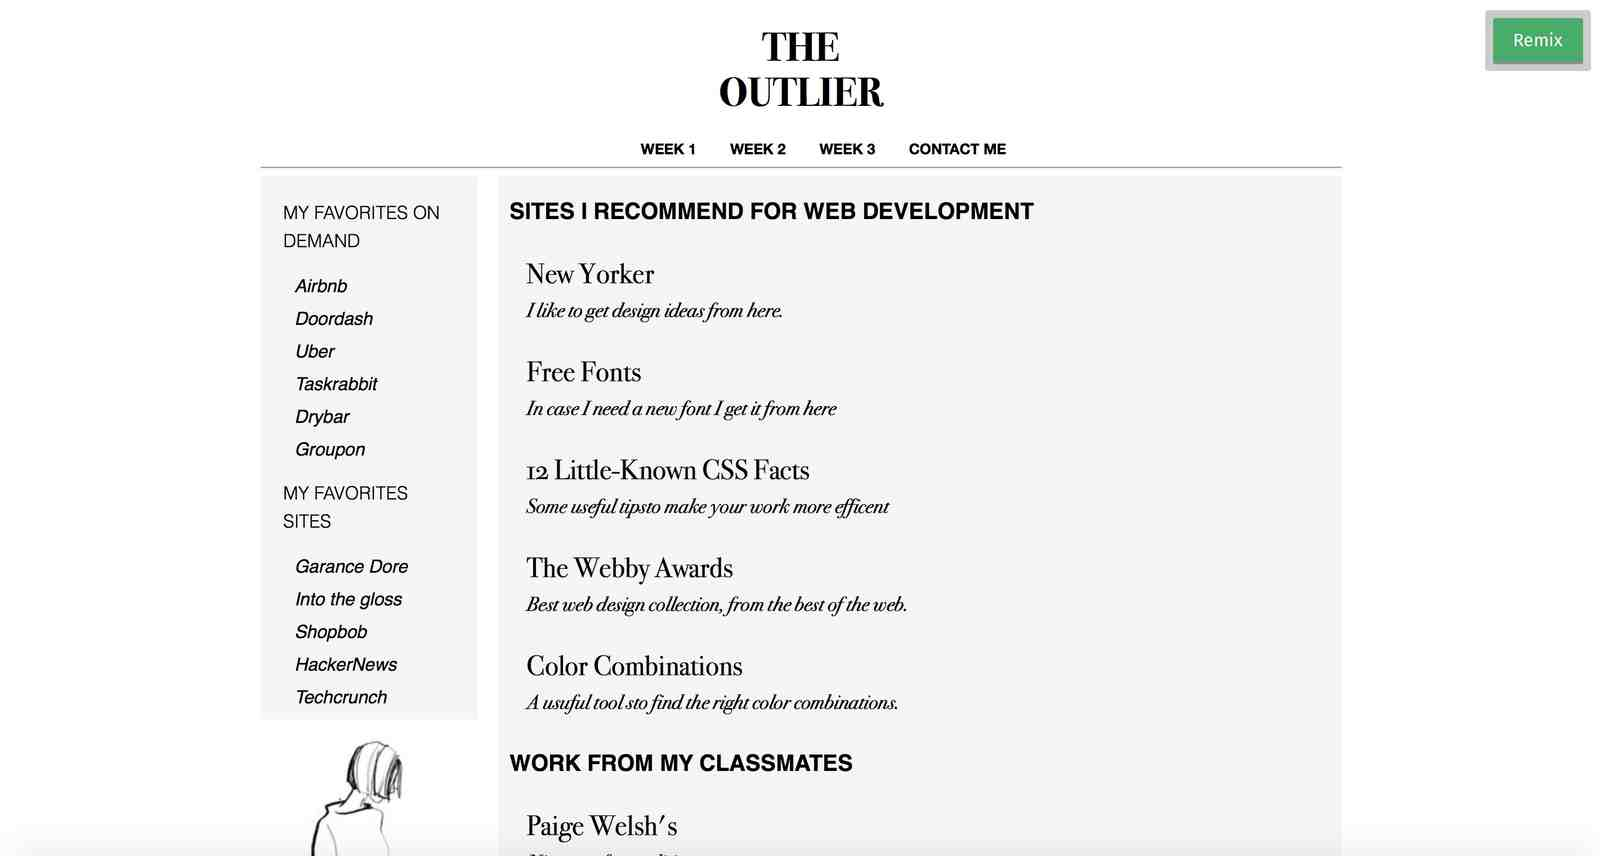
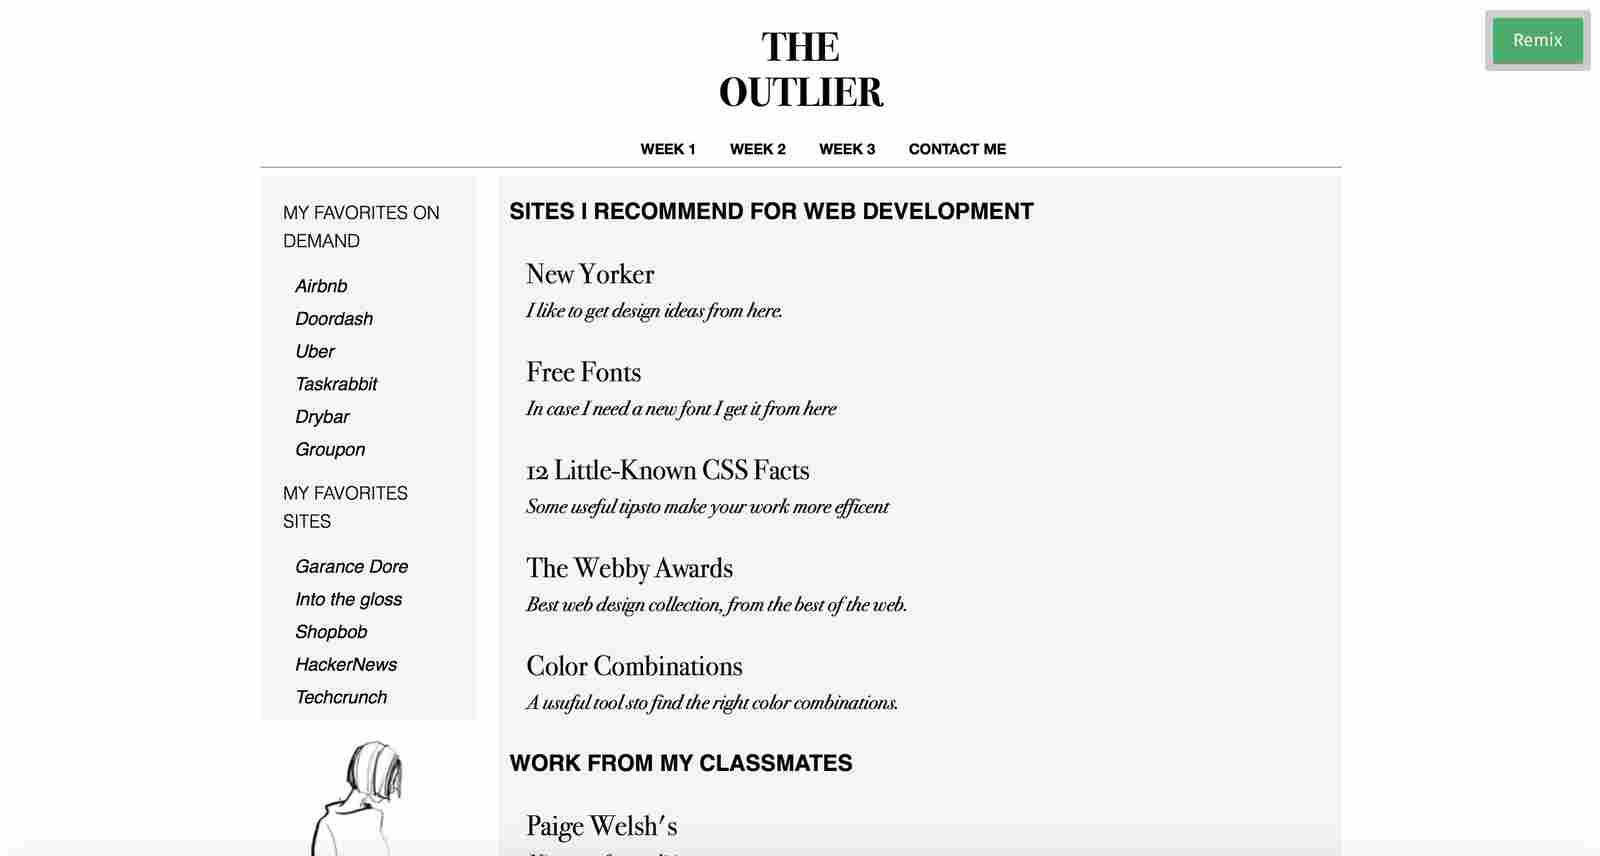
changed quality of 2x images to 15

diff --git a/Gruntfile.js b/Gruntfile.js
@@ -20,7 +20,7 @@ var mozjpeg = require('imagemin-mozjpeg');
           sizes: [{
             width:1600,
             suffix:'_large_2x',
-            quality:25,
+            quality:15,
 
             // width:800,
             // suffix:'_large_1x', ---> Use when you need this size -- it is one si
